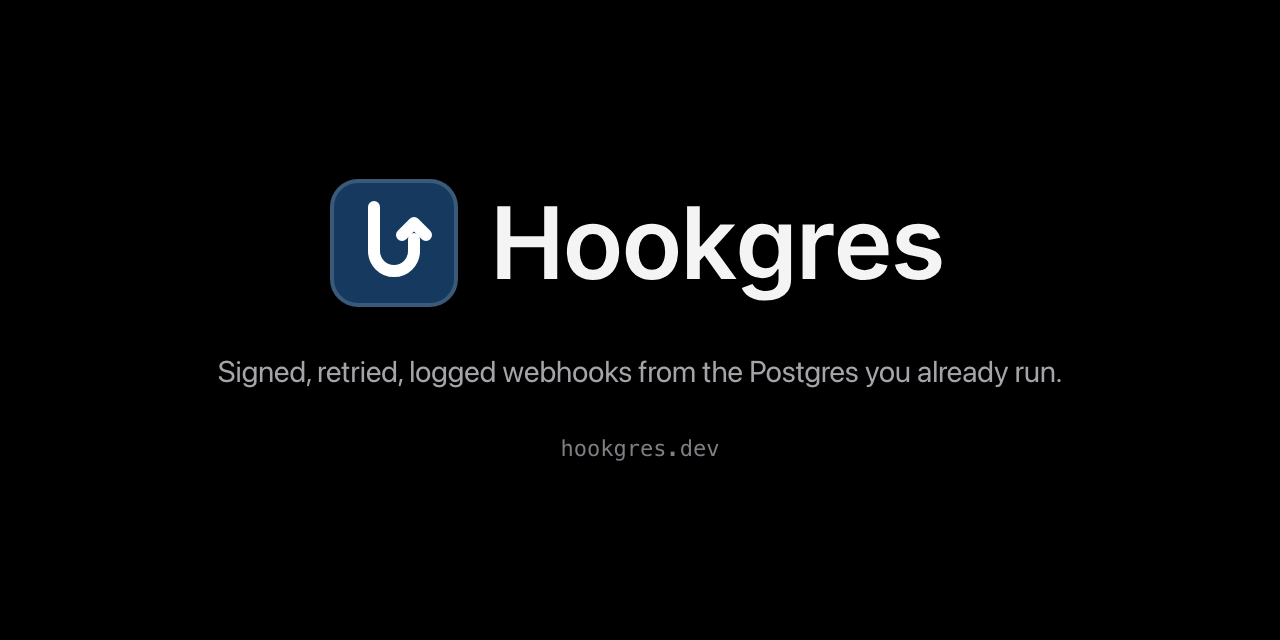
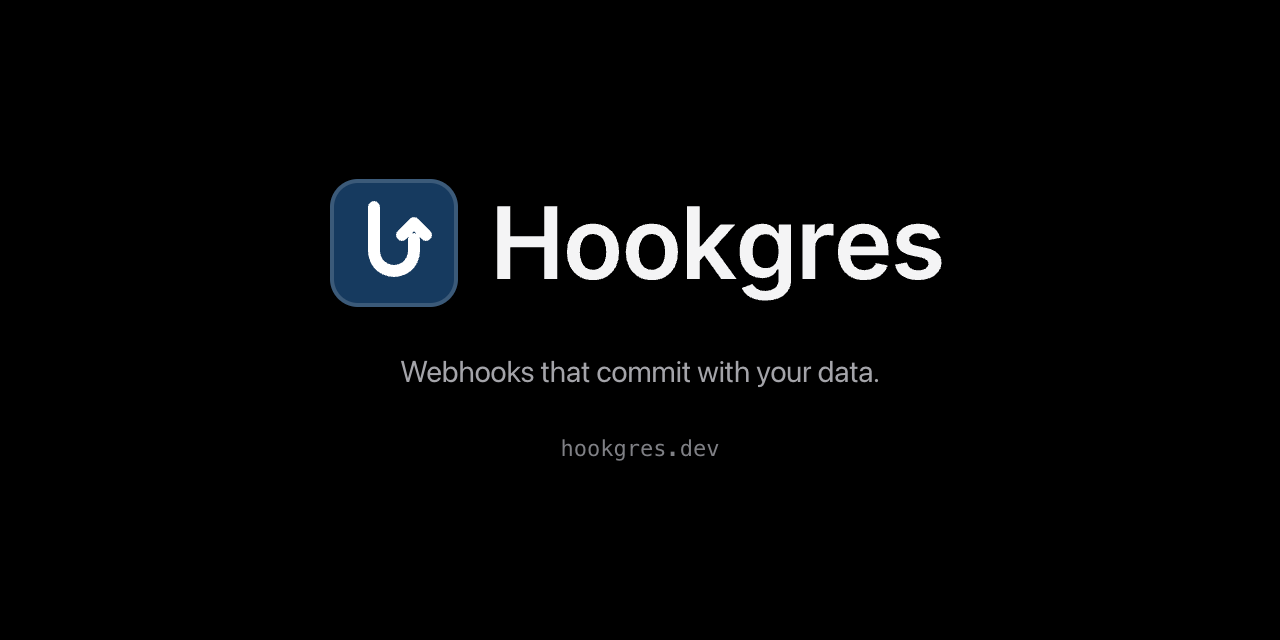
Lead with "Webhooks that commit with your data"
New headline and sub-line on the landing page, plus matching README,
docs, llms.txt, package description, meta tags and social images. The
transaction section now names both failure modes of calling a separate
webhook service (lost and phantom webhooks), and the hero code passes
the transaction's client to send().

Changed region(s): [[0.1562, 0.5625, 0.8438, 0.625]]

diff --git a/site/index.html b/site/index.html
@@ -3,21 +3,21 @@
 <head>
 <meta charset="utf-8">
 <meta name="viewport" content="width=device-width, initial-scale=1, viewport-fit=cover">
-<title>Hookgres: Postgres webhooks for TypeScript</title>
-<meta name="description" content="Send signed, retried, logged webhooks to your customers from the Postgres you already run. A TypeScript library: no extra servers, queues or per-message bills.">
+<title>Hookgres: Postgres webhooks that commit with your data</title>
+<meta name="description" content="A TypeScript library that queues webhooks in your Postgres transaction, then signs, retries and logs every delivery. No extra service, no per-message bill.">
 <link rel="canonical" href="https://hookgres.dev/">
 <meta property="og:type" content="website">
 <meta property="og:site_name" content="Hookgres">
 <meta property="og:url" content="https://hookgres.dev/">
-<meta property="og:title" content="Hookgres: Postgres webhooks for TypeScript">
-<meta property="og:description" content="Signed, retried, logged webhooks from the Postgres you already run.">
+<meta property="og:title" content="Hookgres: webhooks that commit with your data">
+<meta property="og:description" content="Signed, retried webhooks queued in your own Postgres transaction. No extra service, no per-message bill.">
 <meta property="og:image" content="https://hookgres.dev/og.png">
 <meta property="og:image:width" content="1200">
 <meta property="og:image:height" content="630">
-<meta property="og:image:alt" content="Hookgres: webhooks from the Postgres you already run. Shows the npm install command and a send() call inside a database transaction.">
+<meta property="og:image:alt" content="Hookgres: webhooks that commit with your data. Shows the npm install command and a send() call inside a database transaction.">
 <meta name="twitter:card" content="summary_large_image">
-<meta name="twitter:title" content="Hookgres: Postgres webhooks for TypeScript">
-<meta name="twitter:description" content="Signed, retried, logged webhooks from the Postgres you already run.">
+<meta name="twitter:title" content="Hookgres: webhooks that commit with your data">
+<meta name="twitter:description" content="Signed, retried webhooks queued in your own Postgres transaction. No extra service, no per-message bill.">
 <meta name="twitter:image" content="https://hookgres.dev/og.png">
 <meta name="color-scheme" content="light dark">
 <meta name="theme-color" media="(prefers-color-scheme: light)" content="#fbfbfd">
@@ -569,8 +569,8 @@
       <div class="hero-grid">
         <div class="hero-copy">
           <p class="eyebrow">Open-source Postgres webhooks for TypeScript</p>
-          <h1>Webhooks from the Postgres you already run.</h1>
-          <p class="lede">Signed, retried and logged webhooks for your customers. No new servers.</p>
+          <h1>Webhooks that&nbsp;commit with your data.</h1>
+          <p class="lede">A TypeScript library that queues webhooks in your Postgres transaction, then signs, retries and logs every delivery. No extra service, no&nbsp;per&#8209;message&nbsp;bill.</p>
 
           <div class="start">
             <div class="start-row">
@@ -628,12 +628,12 @@ hookgres.start();
   eventTypes: [<span class="s">"invoice.paid"</span>],
 });
 
-<span class="c">// Anywhere in your app, or inside a transaction</span>
+<span class="c">// In your transaction: sent only if it commits</span>
 <span class="k">await</span> hookgres.send({
   tenantId: <span class="s">"acme"</span>,
   eventType: <span class="s">"invoice.paid"</span>,
   payload: { invoiceId: <span class="s">"in_123"</span>, amount: 4200 },
-});</pre>
+}, { client });</pre>
 <pre class="tab-panel" id="code-verify" role="tabpanel" aria-labelledby="tab-verify" hidden><span class="k">import</span> { verifyWebhook } <span class="k">from</span> <span class="s">"hookgres"</span>;
 
 <span class="c">// Your customer's server. Any Standard Webhooks</span>
@@ -670,7 +670,7 @@ hookgres.start();
       <div>
         <p class="kicker">Transactional</p>
         <h2>Queued in your transaction. Sent only if it commits.</h2>
-        <p class="sub">A hosted service sits outside your database, so a webhook can go out for an order that later rolled back. Hookgres writes the webhook in the same transaction as your data.</p>
+        <p class="sub">A webhook service is a second system. Call it after your commit, and a crash in between loses the event. Call it before, and a rollback leaves your customer with a webhook for an invoice that was never paid. Hookgres writes the webhook in the same transaction as your data, so you get the outbox and the delivery in one library.</p>
         <p class="sub">Workers claim deliveries with <code>FOR UPDATE SKIP LOCKED</code>, so you can run as many as you like.</p>
         <p class="more"><a href="/docs/guides/sending">Sending webhooks</a></p>
       </div>

diff --git a/site/og-source.html b/site/og-source.html
@@ -49,8 +49,8 @@
       <svg viewBox="0 0 32 32" aria-hidden="true"><rect width="32" height="32" rx="7" fill="#163a5f"/><path d="M11 7v11a5 5 0 0 0 10 0v-3" fill="none" stroke="#fff" stroke-width="3" stroke-linecap="round"/><path d="M18 14l3-3 3 3" fill="none" stroke="#fff" stroke-width="3" stroke-linecap="round" stroke-linejoin="round"/></svg>
       Hookgres
     </div>
-    <h1>Webhooks from the Postgres you already run.</h1>
-    <p class="lede">Signed, retried and logged webhooks for your customers.</p>
+    <h1>Webhooks that&nbsp;commit with your data.</h1>
+    <p class="lede">Signed, retried webhooks in your Postgres transaction.</p>
     <div class="start">
       <div class="row"><span class="tag">npm</span><span><span class="dim">$ </span>npm install hookgres pg</span></div>
       <div class="row"><span class="tag">Docs</span><span>hookgres.dev</span></div>

diff --git a/docs/.vitepress/config.ts b/docs/.vitepress/config.ts
@@ -31,7 +31,7 @@ function currentLinkStyle(relativePath: string) {
 export default defineConfig({
   title: "Hookgres",
   description:
-    "Reliable, signed webhooks from the Postgres you already run. Retries, endpoint health, secret rotation and replay for TypeScript.",
+    "Webhooks that commit with your data: signed, retried webhooks queued in your own Postgres transaction. Endpoint health, secret rotation and replay for TypeScript.",
   base: "/docs/",
   ignoreDeadLinks: "localhostLinks",
   cleanUrls: true,

diff --git a/.github/assets/social-preview.html b/.github/assets/social-preview.html
@@ -26,7 +26,7 @@
 </head>
 <body>
   <img src="logo-dark.svg" alt="Hookgres">
-  <p>Signed, retried, logged webhooks from the Postgres you already run.</p>
+  <p>Webhooks that commit with your data.</p>
   <div class="url">hookgres.dev</div>
 </body>
 </html>

diff --git a/README.md b/README.md
@@ -6,7 +6,7 @@
     </picture>
   </a>
 
-  <h3>Signed, retried, logged webhooks from the Postgres you already run.</h3>
+  <h3>Webhooks that commit with your data, from the Postgres you already run.</h3>
 
   <p>
     <a href="https://www.npmjs.com/package/hookgres"><img alt="npm version" src="https://img.shields.io/npm/v/hookgres?color=163a5f&label=npm"></a>
@@ -32,7 +32,9 @@
 <br>
 
 Hookgres is a TypeScript library that sends webhooks to your customers from
-your own Postgres. It signs them with
+your own Postgres, queued in the same transaction as the data that caused
+them. If the row commits, the webhook goes out. If it rolls back, nothing is
+sent. Hookgres signs every delivery with
 [Standard Webhooks](https://www.standardwebhooks.com), retries failures for
 about 28 hours, disables endpoints that stay down, and logs every attempt. It's
 the sending half of Svix or Hookdeck as a dependency instead of a vendor: no

diff --git a/docs/index.md b/docs/index.md
@@ -1,7 +1,8 @@
 # Hookgres docs
 
-Signed, retried, logged webhooks to your customers, from the Postgres you
-already run. A TypeScript library, not another service.
+Webhooks that commit with your data. Hookgres queues signed, retried webhooks
+in the same Postgres transaction as your writes. A TypeScript library, not
+another service.
 
 <DocsHub />
 
